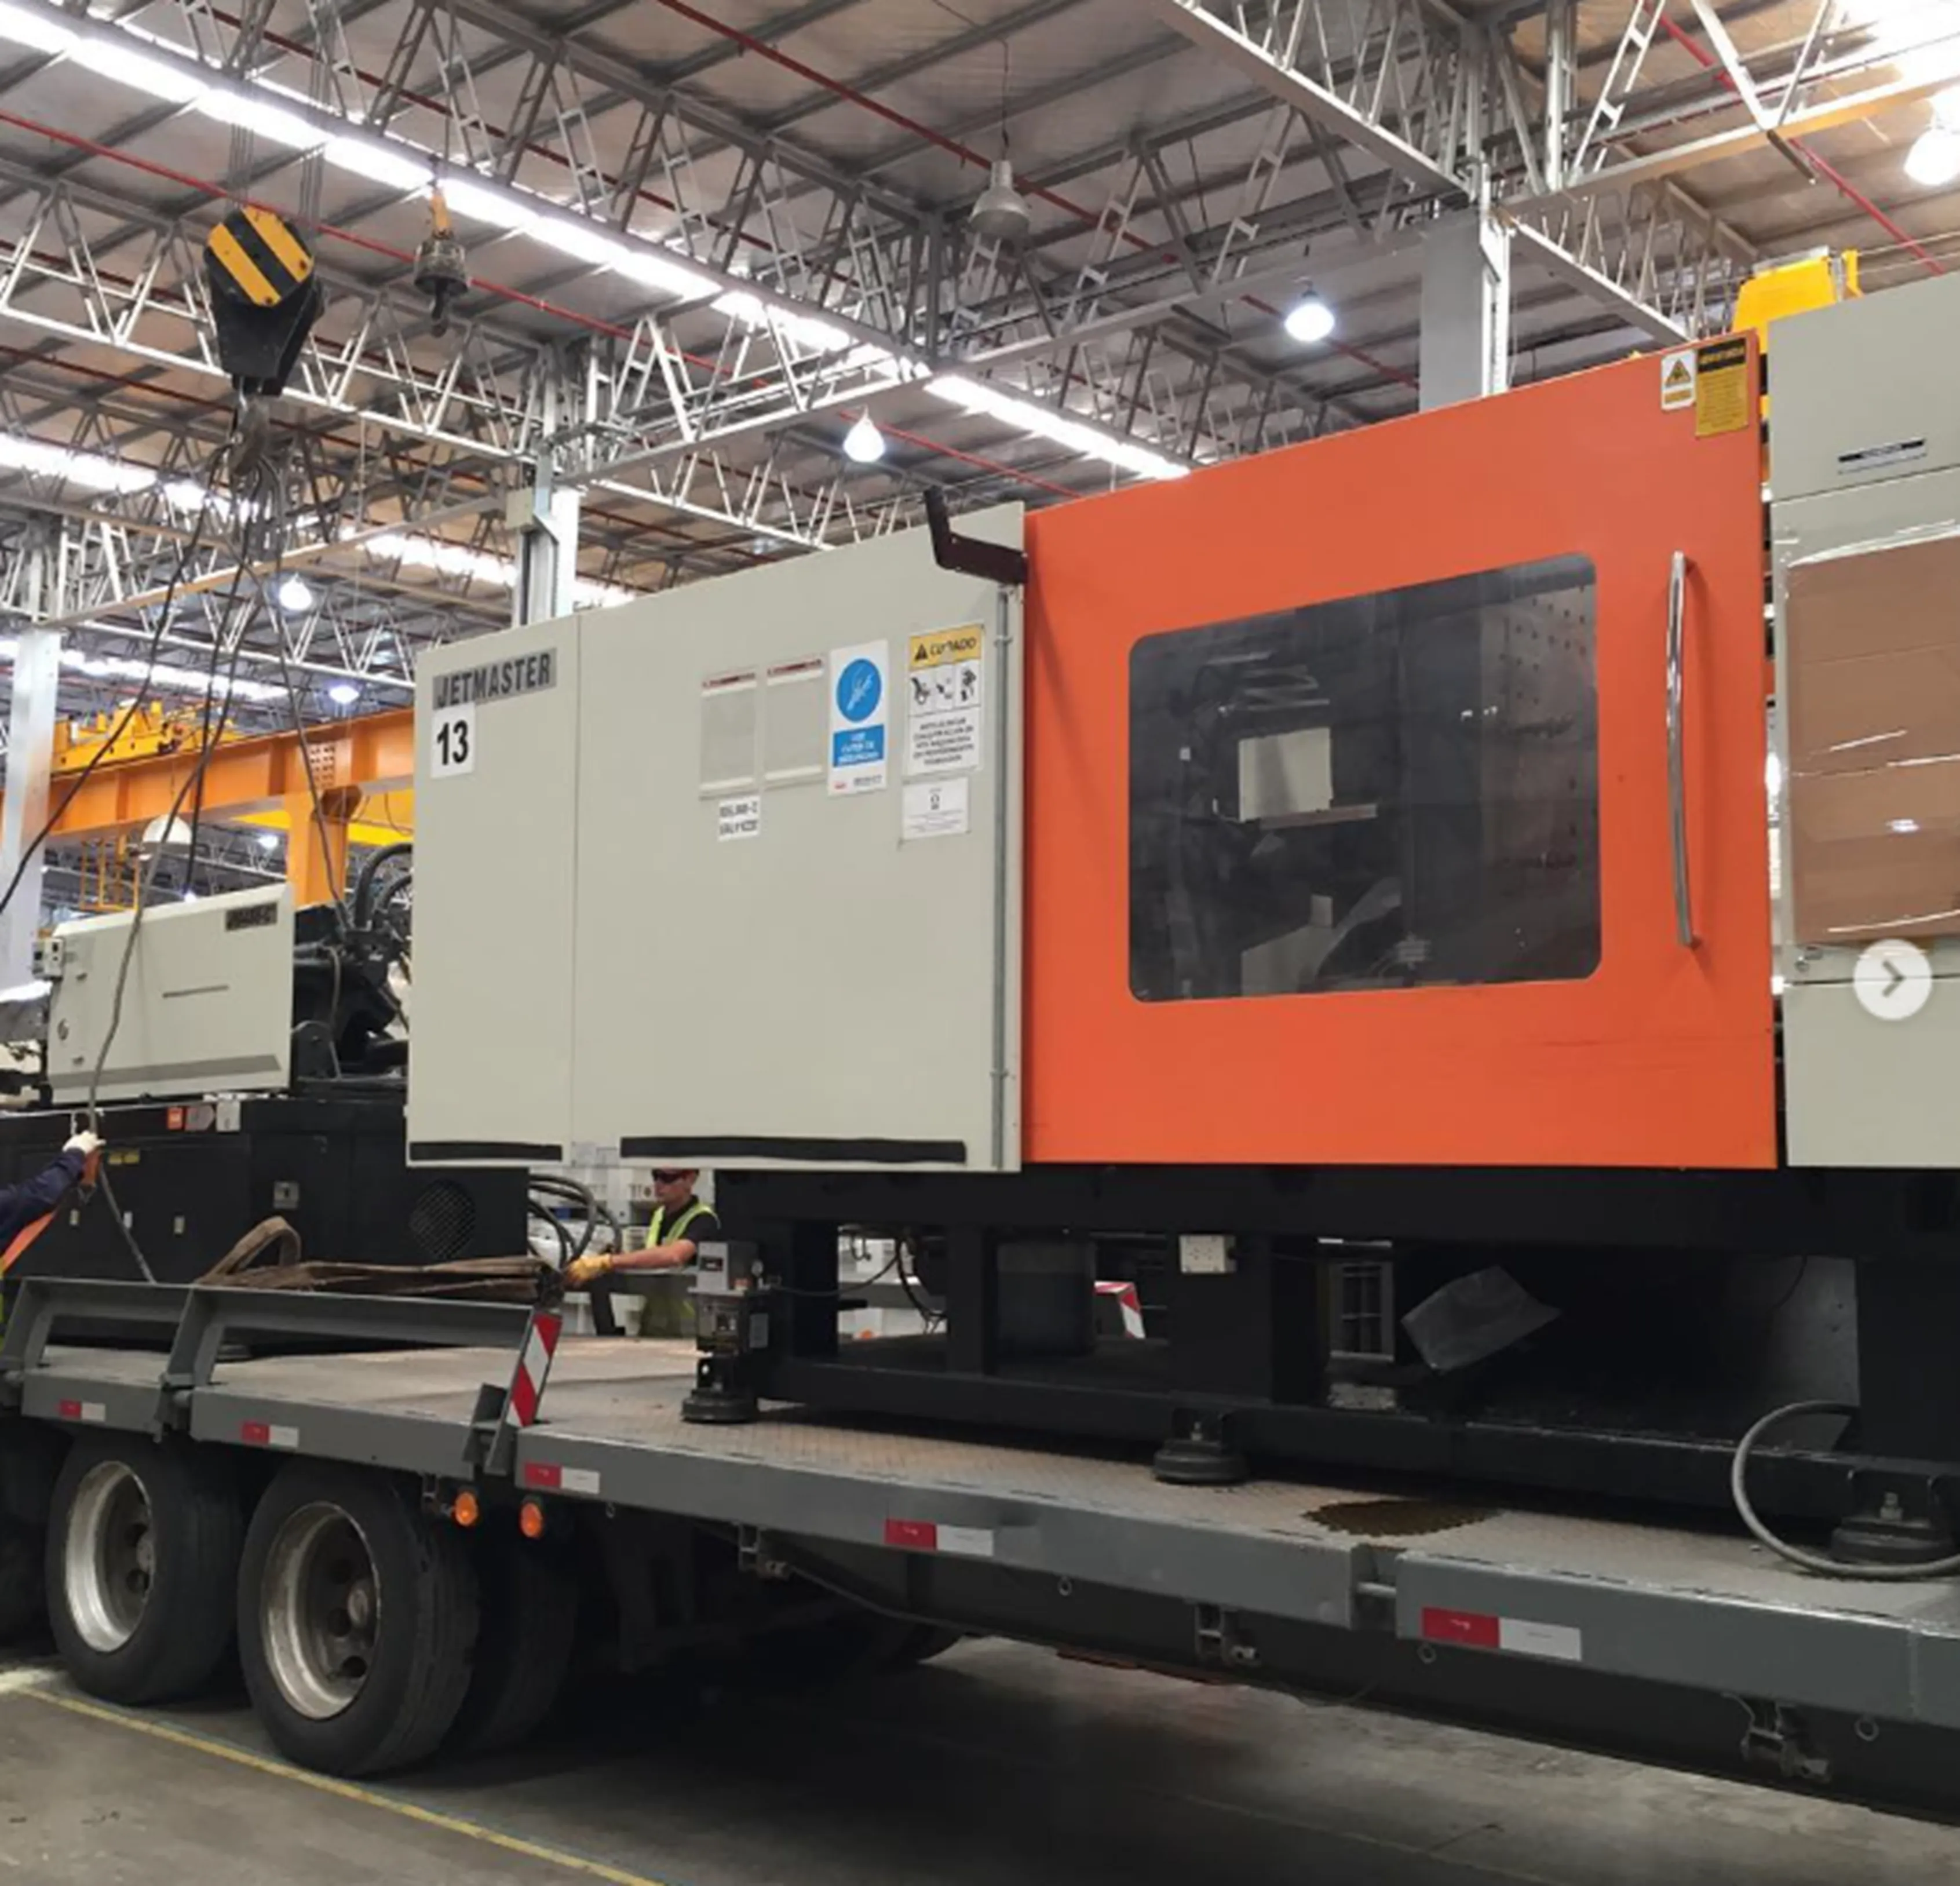
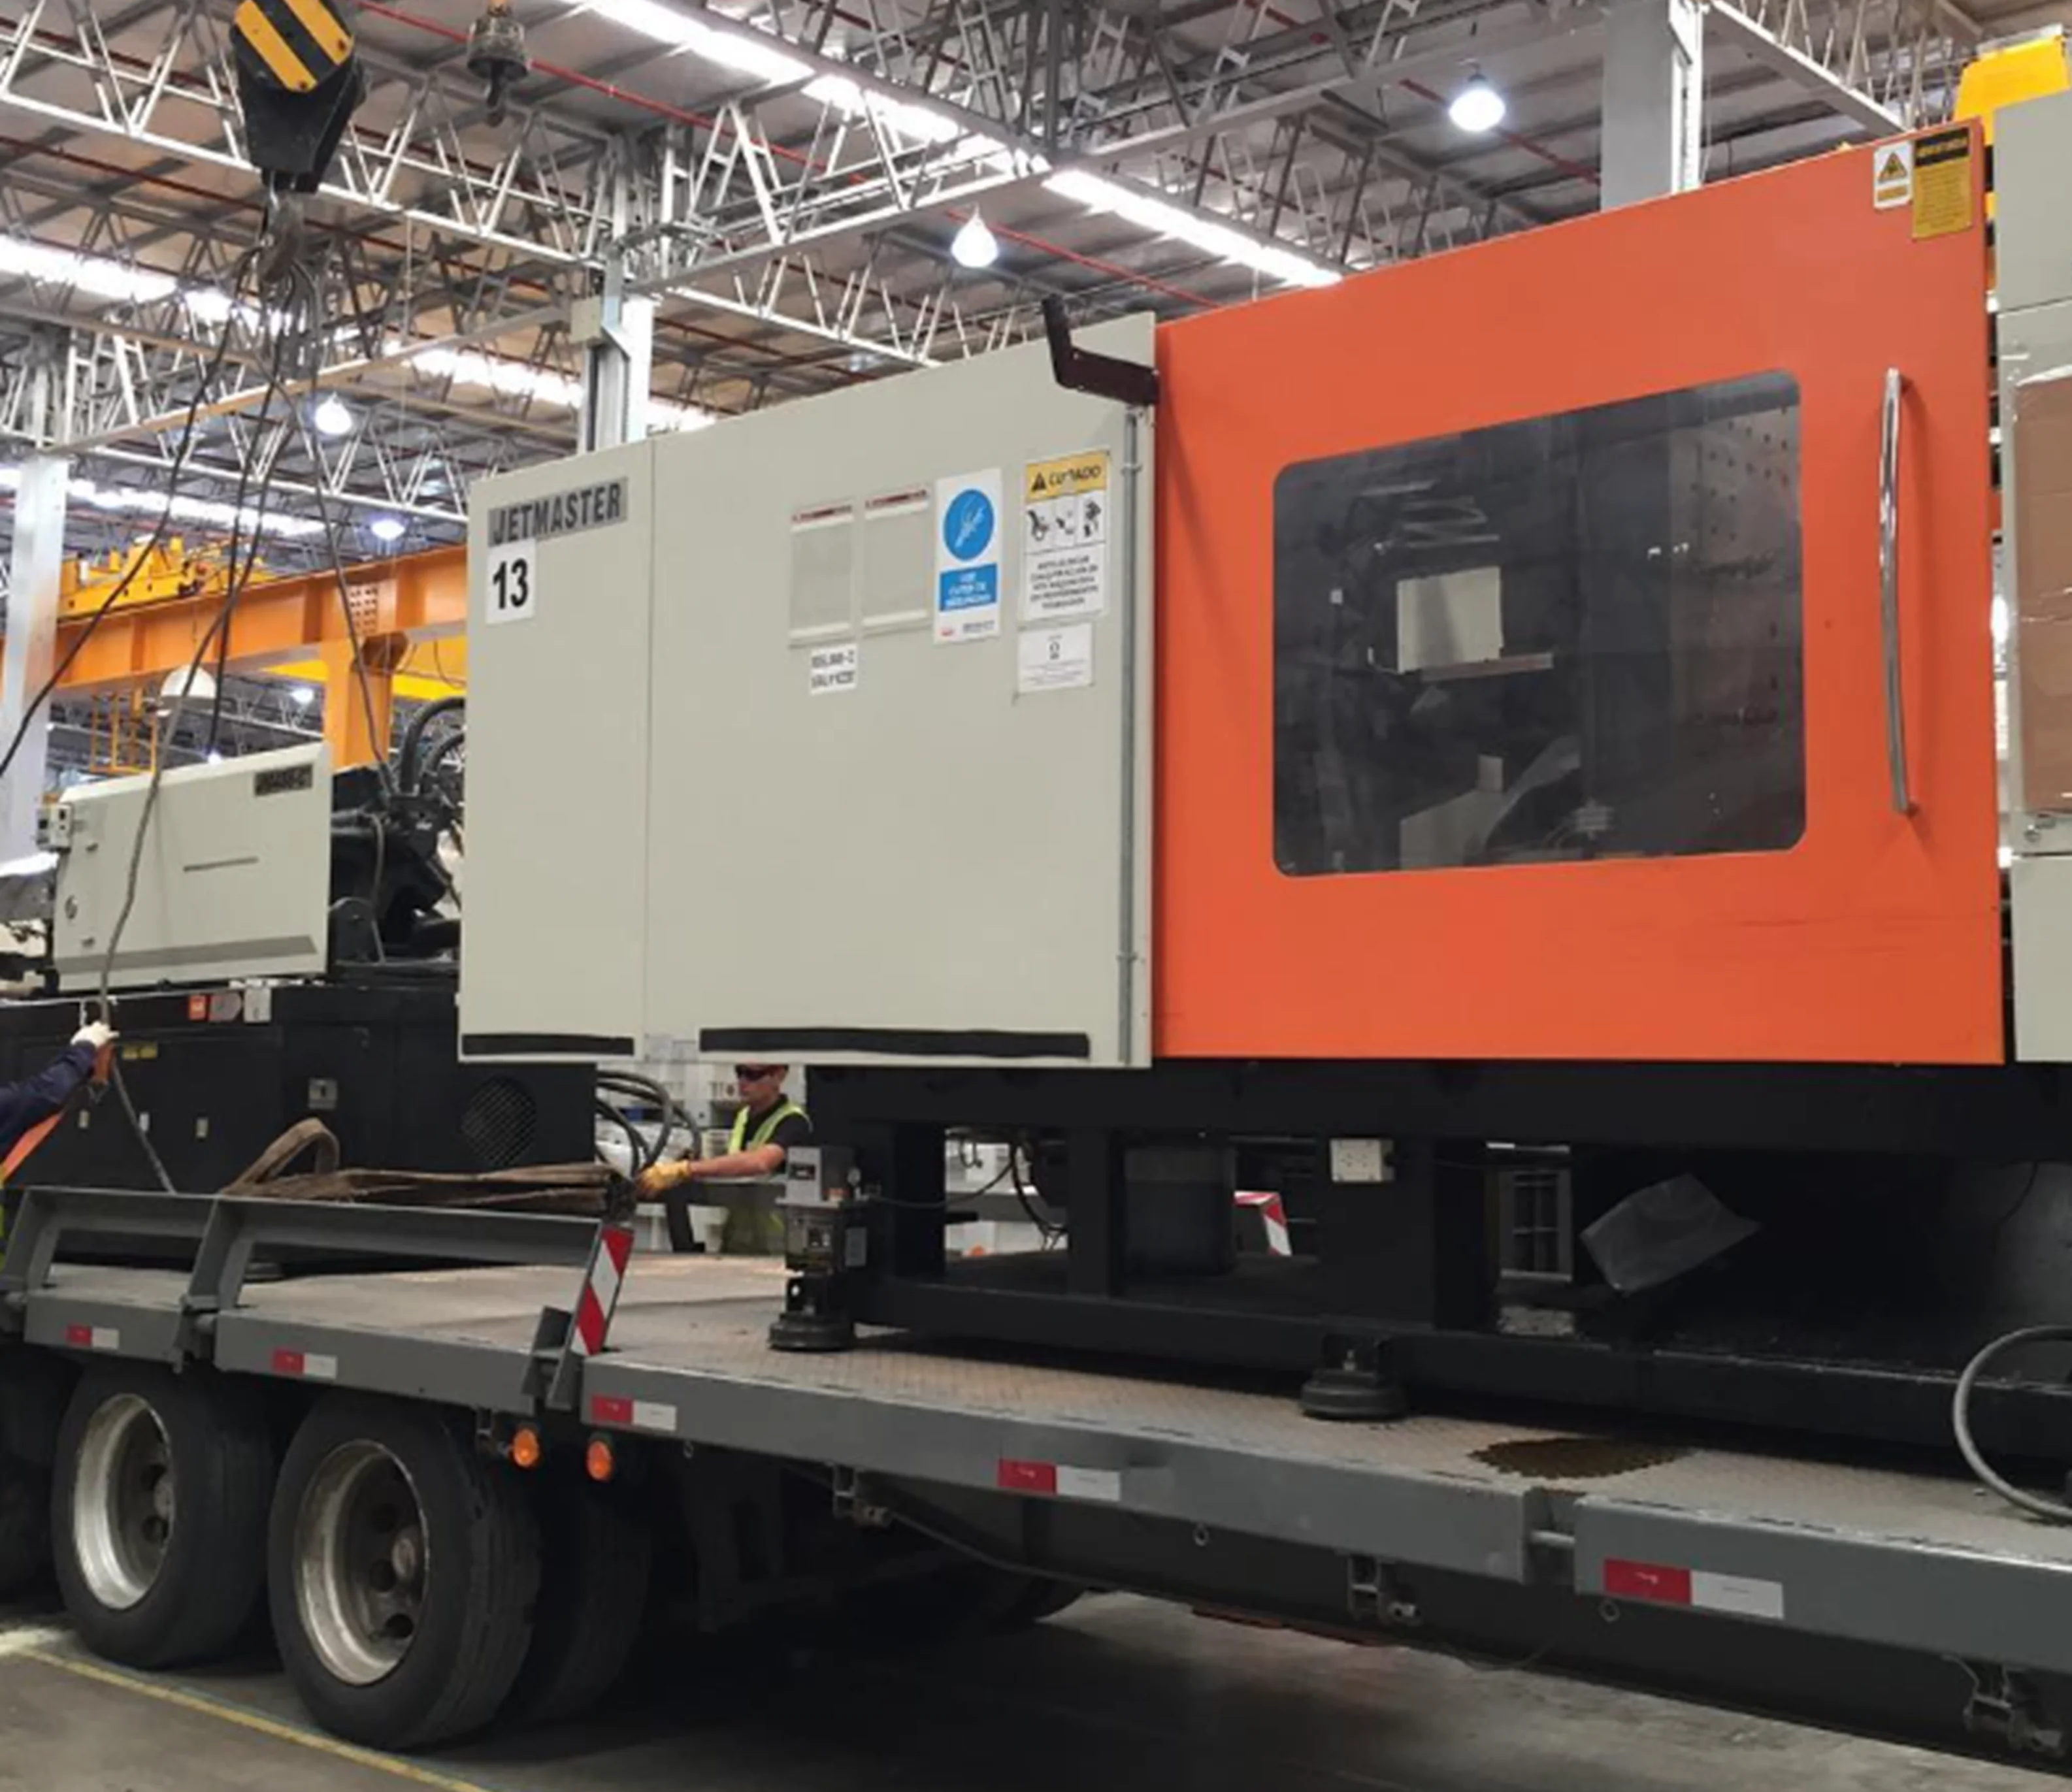
cambios generales

diff --git a/src/components/ScrollToTop.jsx b/src/components/ScrollToTop.jsx
@@ -1,0 +1,50 @@
+import { useState, useEffect } from 'react';
+import { Icon } from '@iconify/react';
+import { motion, AnimatePresence } from 'framer-motion';
+
+export default function ScrollToTop({ isDarkMode }) {
+  const [isVisible, setIsVisible] = useState(false);
+
+  // Show button when page is scrolled down
+  useEffect(() => {
+    const toggleVisibility = () => {
+      if (window.scrollY > 300) {
+        setIsVisible(true);
+      } else {
+        setIsVisible(false);
+      }
+    };
+
+    window.addEventListener('scroll', toggleVisibility);
+    return () => window.removeEventListener('scroll', toggleVisibility);
+  }, []);
+
+  const scrollToTop = () => {
+    window.scrollTo({
+      top: 0,
+      behavior: 'smooth'
+    });
+  };
+
+  const buttonStyle = isDarkMode
+    ? 'bg-cyan-brand text-on-secondary hover:bg-white hover:text-cyan-brand'
+    : 'bg-primary-container text-white hover:bg-cyan-brand hover:text-on-secondary';
+
+  return (
+    <AnimatePresence>
+      {isVisible && (
+        <motion.button
+          initial={{ opacity: 0, scale: 0.5 }}
+          animate={{ opacity: 1, scale: 1 }}
+          exit={{ opacity: 0, scale: 0.5 }}
+          transition={{ duration: 0.3 }}
+          onClick={scrollToTop}
+          className={`fixed bottom-6 right-6 z-50 p-3 rounded-full shadow-lg transition-all duration-300 ${buttonStyle}`}
+          aria-label="Volver arriba"
+        >
+          <Icon icon="material-symbols:arrow-upward" className="text-2xl" />
+        </motion.button>
+      )}
+    </AnimatePresence>
+  );
+}

diff --git a/src/components/Hero.jsx b/src/components/Hero.jsx
@@ -26,7 +26,7 @@ export default function Hero({ t, isDarkMode }) {
         </motion.span>
 
         <motion.h1 initial={{ y: 40, opacity: 0 }} animate={inView ? { y: 0, opacity: 1 } : {}} transition={{ duration: 0.6, delay: 0.2 }}
-          className="font-[Syne] text-[clamp(36px,6vw,64px)] leading-[1.1] tracking-[-0.02em] font-extrabold mb-6 max-w-4xl mx-auto"
+          className="font-[Montserrat] text-[clamp(36px,6vw,64px)] leading-[1.1] tracking-[-0.02em] font-extrabold mb-6 max-w-4xl mx-auto"
           style={{ color: isDarkMode ? '#ffffff' : '#0d1b3e' }}>
           {t.h1_1}{' '}
           <span className="bg-clip-text text-transparent bg-gradient-to-r from-cyan-brand to-primary">
@@ -44,7 +44,6 @@ export default function Hero({ t, isDarkMode }) {
           <a href="#services"
             className="px-10 py-4 bg-cyan-brand text-on-secondary font-[Syne] text-sm font-bold uppercase tracking-widest rounded-lg hover:scale-105 transition-all glow-cyan flex items-center justify-center gap-2">
             {t.cta_primary}
-            <Icon icon="material-symbols:rocket-launch" className="text-xl" />
           </a>
           <a href="#contact"
             className={`px-10 py-4 font-[Syne] text-sm font-bold uppercase tracking-widest rounded-lg transition-all ${secondaryBtnClass}`}>
@@ -56,7 +55,7 @@ export default function Hero({ t, isDarkMode }) {
       <motion.div initial={{ scale: 0.97, opacity: 0 }} animate={inView ? { scale: 1, opacity: 1 } : {}} transition={{ duration: 0.8, delay: 0.5 }}
         className="mt-20 w-full max-w-5xl glass-panel rounded-2xl p-4 relative z-10">
         <img alt="Modern industrial facility"
-          className="w-full h-[400px] object-cover rounded-xl grayscale hover:grayscale-0 transition-all duration-700 opacity-60 hover:opacity-100"
+          className="w-full h-[400px] object-cover rounded-xl md:grayscale hover:grayscale-0 transition-all duration-700 opacity-60 hover:opacity-100"
           src={Foto6} />
         <div className="absolute inset-0 bg-gradient-to-t from-surface to-transparent rounded-xl" />
       </motion.div>

diff --git a/index.html b/index.html
@@ -3,7 +3,7 @@
   <head>
     <meta charset="UTF-8" />
     <link rel="icon" type="image/webp" href="/src/images/Logo.webp" />
-    <meta name="viewport" content="width=device-width, initial-scale=1.0" />
+    <meta name="viewport" content="width=device-width, initial-scale=1.0, maximum-scale=1.0, user-scalable=0" />
     <title>AUTOMACER | Industrial Tech Solutions</title>
     <meta name="description" content="AUTOMACER — Servicios industriales eléctricos de precisión en Argentina desde 1991. Instalación, mantenimiento, PLC y energía fotovoltaica." />
 
@@ -20,7 +20,7 @@
     <meta name="twitter:title" content="AUTOMACER | Industrial Tech Solutions" />
     <meta name="twitter:description" content="AUTOMACER — Servicios industriales eléctricos de precisión en Argentina desde 1991. Instalación, mantenimiento, PLC y energía fotovoltaica." />
     <meta name="twitter:image" content="https://automacer.netlify.app/og-image.jpg" /> <!-- ⚠️ URL ABSOLUTA -->
-    <link href="https://fonts.googleapis.com/css2?family=Syne:wght@400;500;700;800&family=Inter:wght@300;400;500;600&display=swap" rel="stylesheet" />
+    <link href="https://fonts.googleapis.com/css2?family=Syne:wght@400;500;700;800&family=Inter:wght@300;400;500;600&family=Montserrat:wght@400;500;600;700;800&display=swap" rel="stylesheet" />
     <link href="https://fonts.googleapis.com/css2?family=Material+Symbols+Outlined:wght,FILL@100..700,0..1&display=swap" rel="stylesheet" />
   </head>
   <body>

diff --git a/src/App.jsx b/src/App.jsx
@@ -6,6 +6,7 @@ import Services from './components/Services'
 import Gallery from './components/Gallery'
 import Contact from './components/Contact'
 import Footer from './components/Footer'
+import ScrollToTop from './components/ScrollToTop'
 import { TRANSLATIONS } from './constants'
 
 function App() {
@@ -42,6 +43,7 @@ function App() {
         <Contact t={t.contact} isDarkMode={isDarkMode} />
       </main>
       <Footer t={t.footer} isDarkMode={isDarkMode} />
+      <ScrollToTop isDarkMode={isDarkMode} />
     </>
   )
 }

diff --git a/src/components/Contact.jsx b/src/components/Contact.jsx
@@ -285,7 +285,7 @@ export default function Contact({ t, isDarkMode }) {
               {t.info.map((info, i) => (
                 <motion.div key={info.title}
                   variants={{ hidden: { opacity: 0, y: 20 }, visible: { opacity: 1, y: 0, transition: { duration: 0.5 } } }}
-                  className="flex items-start gap-6">
+                  className="flex items-center gap-6">
                   <div className="w-12 h-12 bg-primary-container/30 rounded-lg flex items-center justify-center border border-white/10 glass-panel">
                     <Icon icon={contactIcons[i]} className="text-cyan-brand text-2xl" />
                   </div>

diff --git a/src/components/Gallery.jsx b/src/components/Gallery.jsx
@@ -44,7 +44,7 @@ export default function Gallery({ t, isDarkMode }) {
             variants={{ hidden: { opacity: 0, scale: 0.95 }, visible: { opacity: 1, scale: 1, transition: { duration: 0.5 } } }}
             className={`glass-panel p-2 rounded-2xl overflow-hidden group ${img.span ? 'md:col-span-2 md:row-span-2' : ''} ${img.colSpan2 ? 'md:col-span-2' : ''}`}>
             <img src={img.src} alt={t.alts[i] || 'Imagen de la galería'}
-              className={`w-full object-cover rounded-xl grayscale group-hover:grayscale-0 transition-all duration-500 ${img.span ? 'h-full scale-100 group-hover:scale-105' : 'h-64'}`} />
+              className={`w-full object-cover rounded-xl md:grayscale group-hover:grayscale-0 transition-all duration-500 ${img.span ? 'h-full scale-100 group-hover:scale-105' : 'h-64'}`} />
           </motion.div>
         ))}
       </motion.div>

diff --git a/src/index.css b/src/index.css
@@ -55,6 +55,7 @@
   /* Font Families */
   --font-syne: "Syne", sans-serif;
   --font-inter: "Inter", sans-serif;
+  --font-montserrat: "Montserrat", sans-serif;
 }
 
 /* ─── Base Styles ─── */